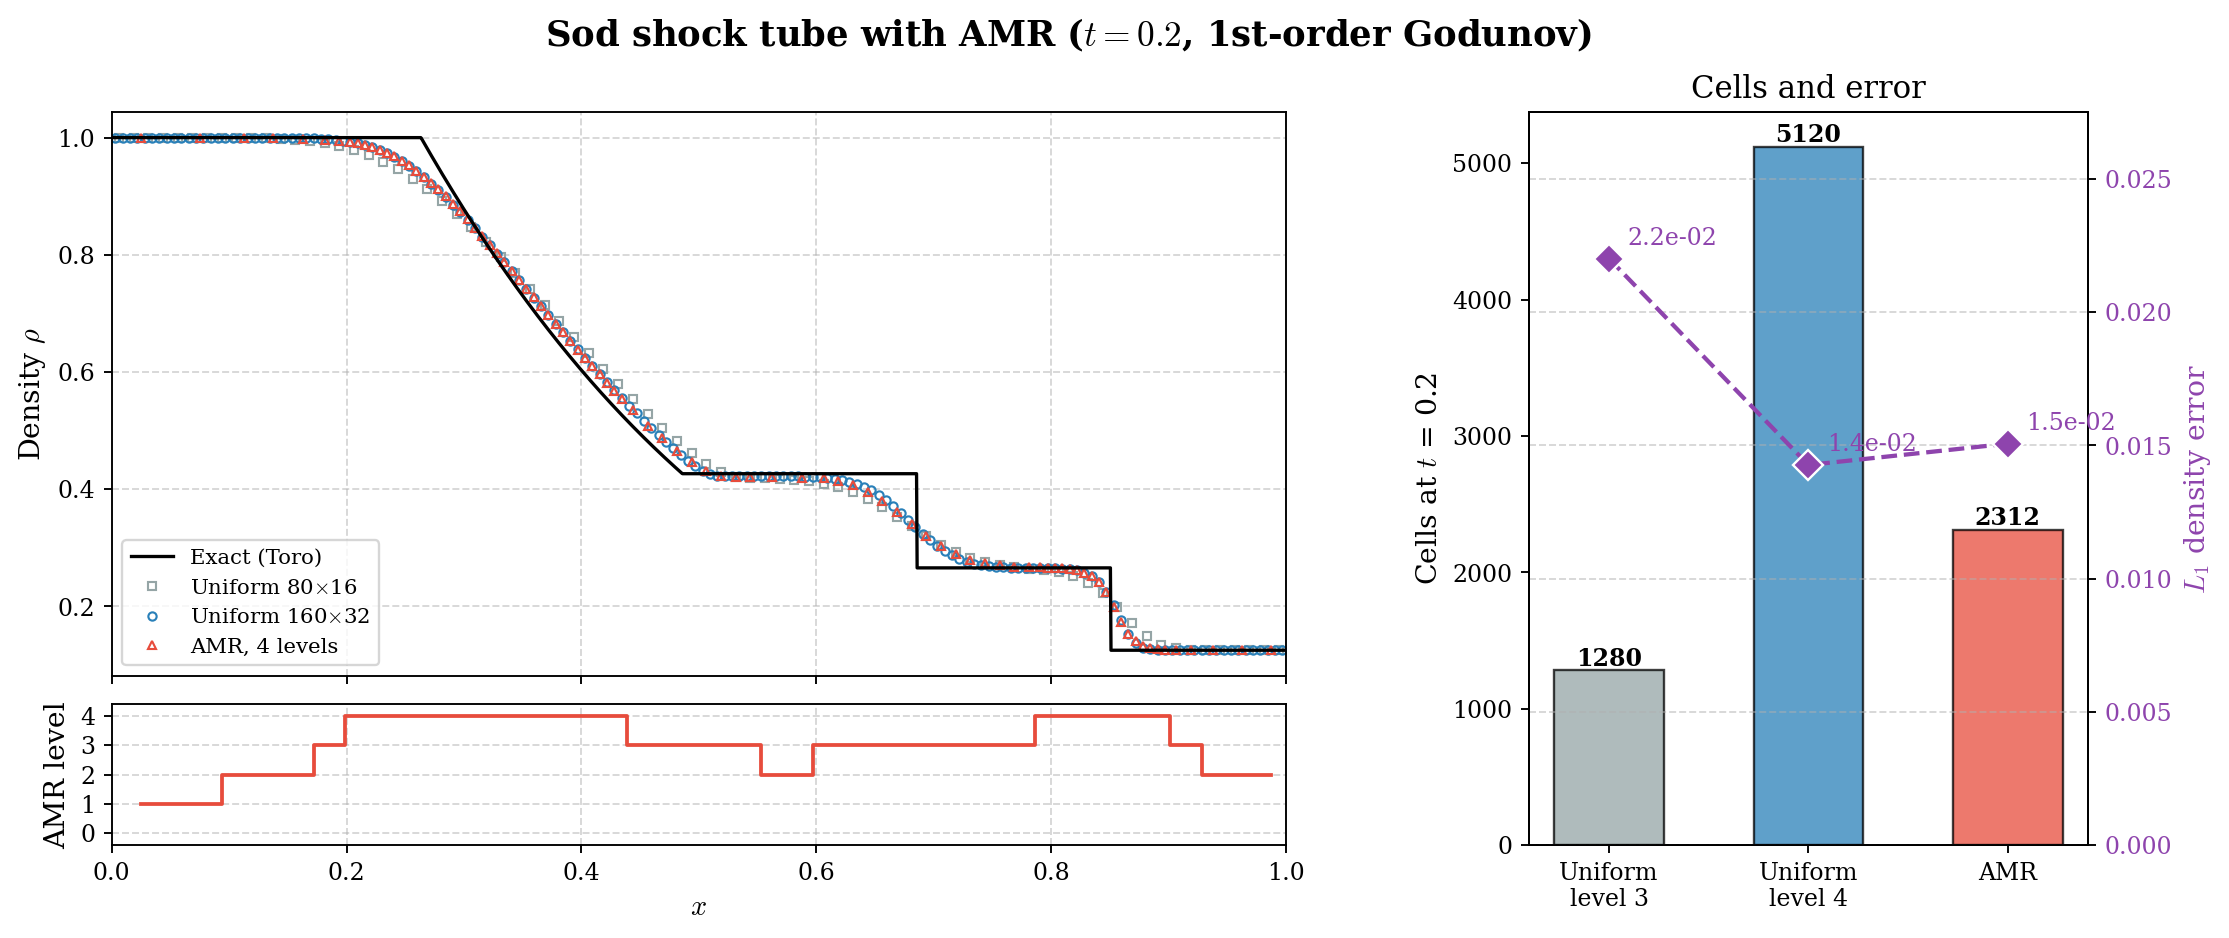
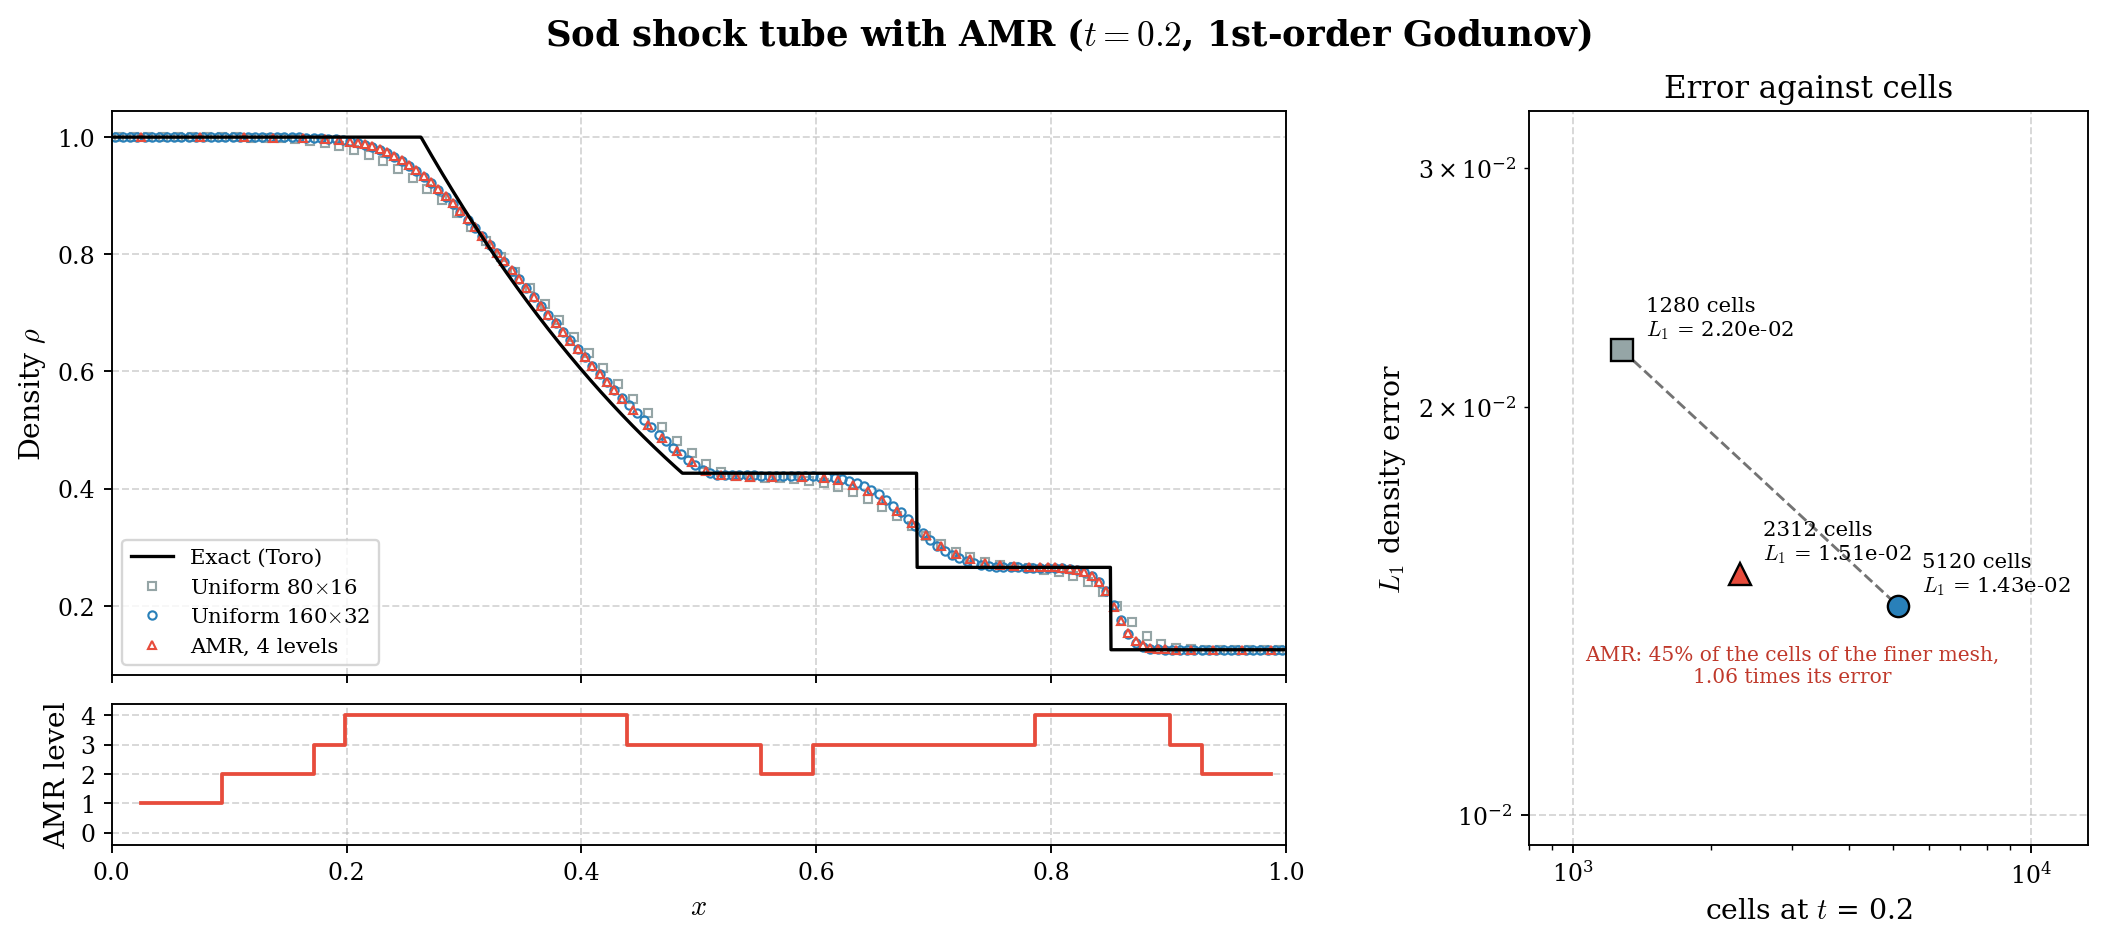
Sod AMR figure: right panel is the error against the number of cells (log-log) instead of bars with a second axis [skip ci]

diff --git a/cases/validation/amr/sod_amr.py b/cases/validation/amr/sod_amr.py
@@ -83,22 +83,19 @@ def main():
     axl.set_xlabel("$x$")
     axl.set_ylabel("AMR level")
 
-    pos = np.arange(len(runs))
-    bars = axb.bar(pos, [r[3] for _, r, _, _ in runs], 0.55, color=[c for *_, c, _ in runs], alpha=0.75,
-                   edgecolor="black")
-    for b, (_, r, _, _) in zip(bars, runs):
-        axb.text(b.get_x() + b.get_width() / 2, b.get_height(), f"{r[3]}", ha="center", va="bottom", fontweight="bold")
-    axb.set_xticks(pos, [f"Uniform\nlevel {LEVELS - 1}", f"Uniform\nlevel {LEVELS}", "AMR"])
-    axb.set_ylabel("Cells at $t$ = 0.2")
-    axb.grid(False)
-    ae = axb.twinx()
-    ae.plot(pos, errs, "D--", color="#8e44ad", ms=9, mec="white", lw=1.8)
-    for p, e in zip(pos, errs):
-        ae.annotate(f"{e:.1e}", (p, e), textcoords="offset points", xytext=(8, 6), color="#8e44ad", fontsize=10)
-    ae.set_ylabel(r"$L_1$ density error", color="#8e44ad")
-    ae.set_ylim(0, 1.25 * max(errs))
-    ae.tick_params(axis="y", labelcolor="#8e44ad")
-    axb.set_title("Cells and error")
+    # error against cost: the two uniform meshes define the line a uniform refinement follows
+    cells = [r[3] for _, r, _, _ in runs]
+    axb.loglog(cells[:2], errs[:2], "--", color="0.45", lw=1.2, zorder=1)
+    for (label, r, c, m), n, e in zip(runs, cells, errs):
+        axb.plot(n, e, marker=m, ms=9, mfc=c, mec="black", ls="none", zorder=3)
+        axb.annotate(f"{n} cells\n$L_1$ = {e:.2e}", (n, e), textcoords="offset points", xytext=(10, 6), fontsize=9)
+    axb.annotate(f"AMR: {cells[2] / cells[1]:.0%} of the cells of the finer mesh,\n{errs[2] / errs[1]:.2f} times its error",
+                 (cells[2], errs[2]), textcoords="offset points", xytext=(22, -46), fontsize=8.5, ha="center", color="#c0392b")
+    axb.set_xlim(min(cells) / 1.6, max(cells) * 2.6)
+    axb.set_ylim(min(errs) / 1.5, max(errs) * 1.5)
+    axb.set_xlabel("cells at $t$ = 0.2")
+    axb.set_ylabel(r"$L_1$ density error")
+    axb.set_title("Error against cells")
     study.save(fig, STUDY, "sod_amr.png", args.docs)
 
 

diff --git a/docs/source/cases/sod.md b/docs/source/cases/sod.md
@@ -54,7 +54,7 @@ finest levels.
 <img src="{{root}}img/sod_amr.png" style="width:100%">
 <figcaption>AMR vs uniform 80×16 and 160×32 meshes at t = 0.2. AMR keeps level 4 around
 the contact and the shock and reaches the error of the 160×32 mesh (L1 1.5e-2 vs 1.4e-2) with
-45% of its cells (a cell count; the run time of this tiny case is not measured, so no time saving is claimed).</figcaption>
+45% of its cells (a cell count; the run time of this tiny case is not measured, so no time saving is claimed). Right: the error against the number of cells; the two uniform meshes define the dashed line, and the AMR point lies below it.</figcaption>
 </figure>
 
 The refinement follows the waves. `cases/validation/amr/sod_amr_animation.py` runs a 40×4 base mesh with
